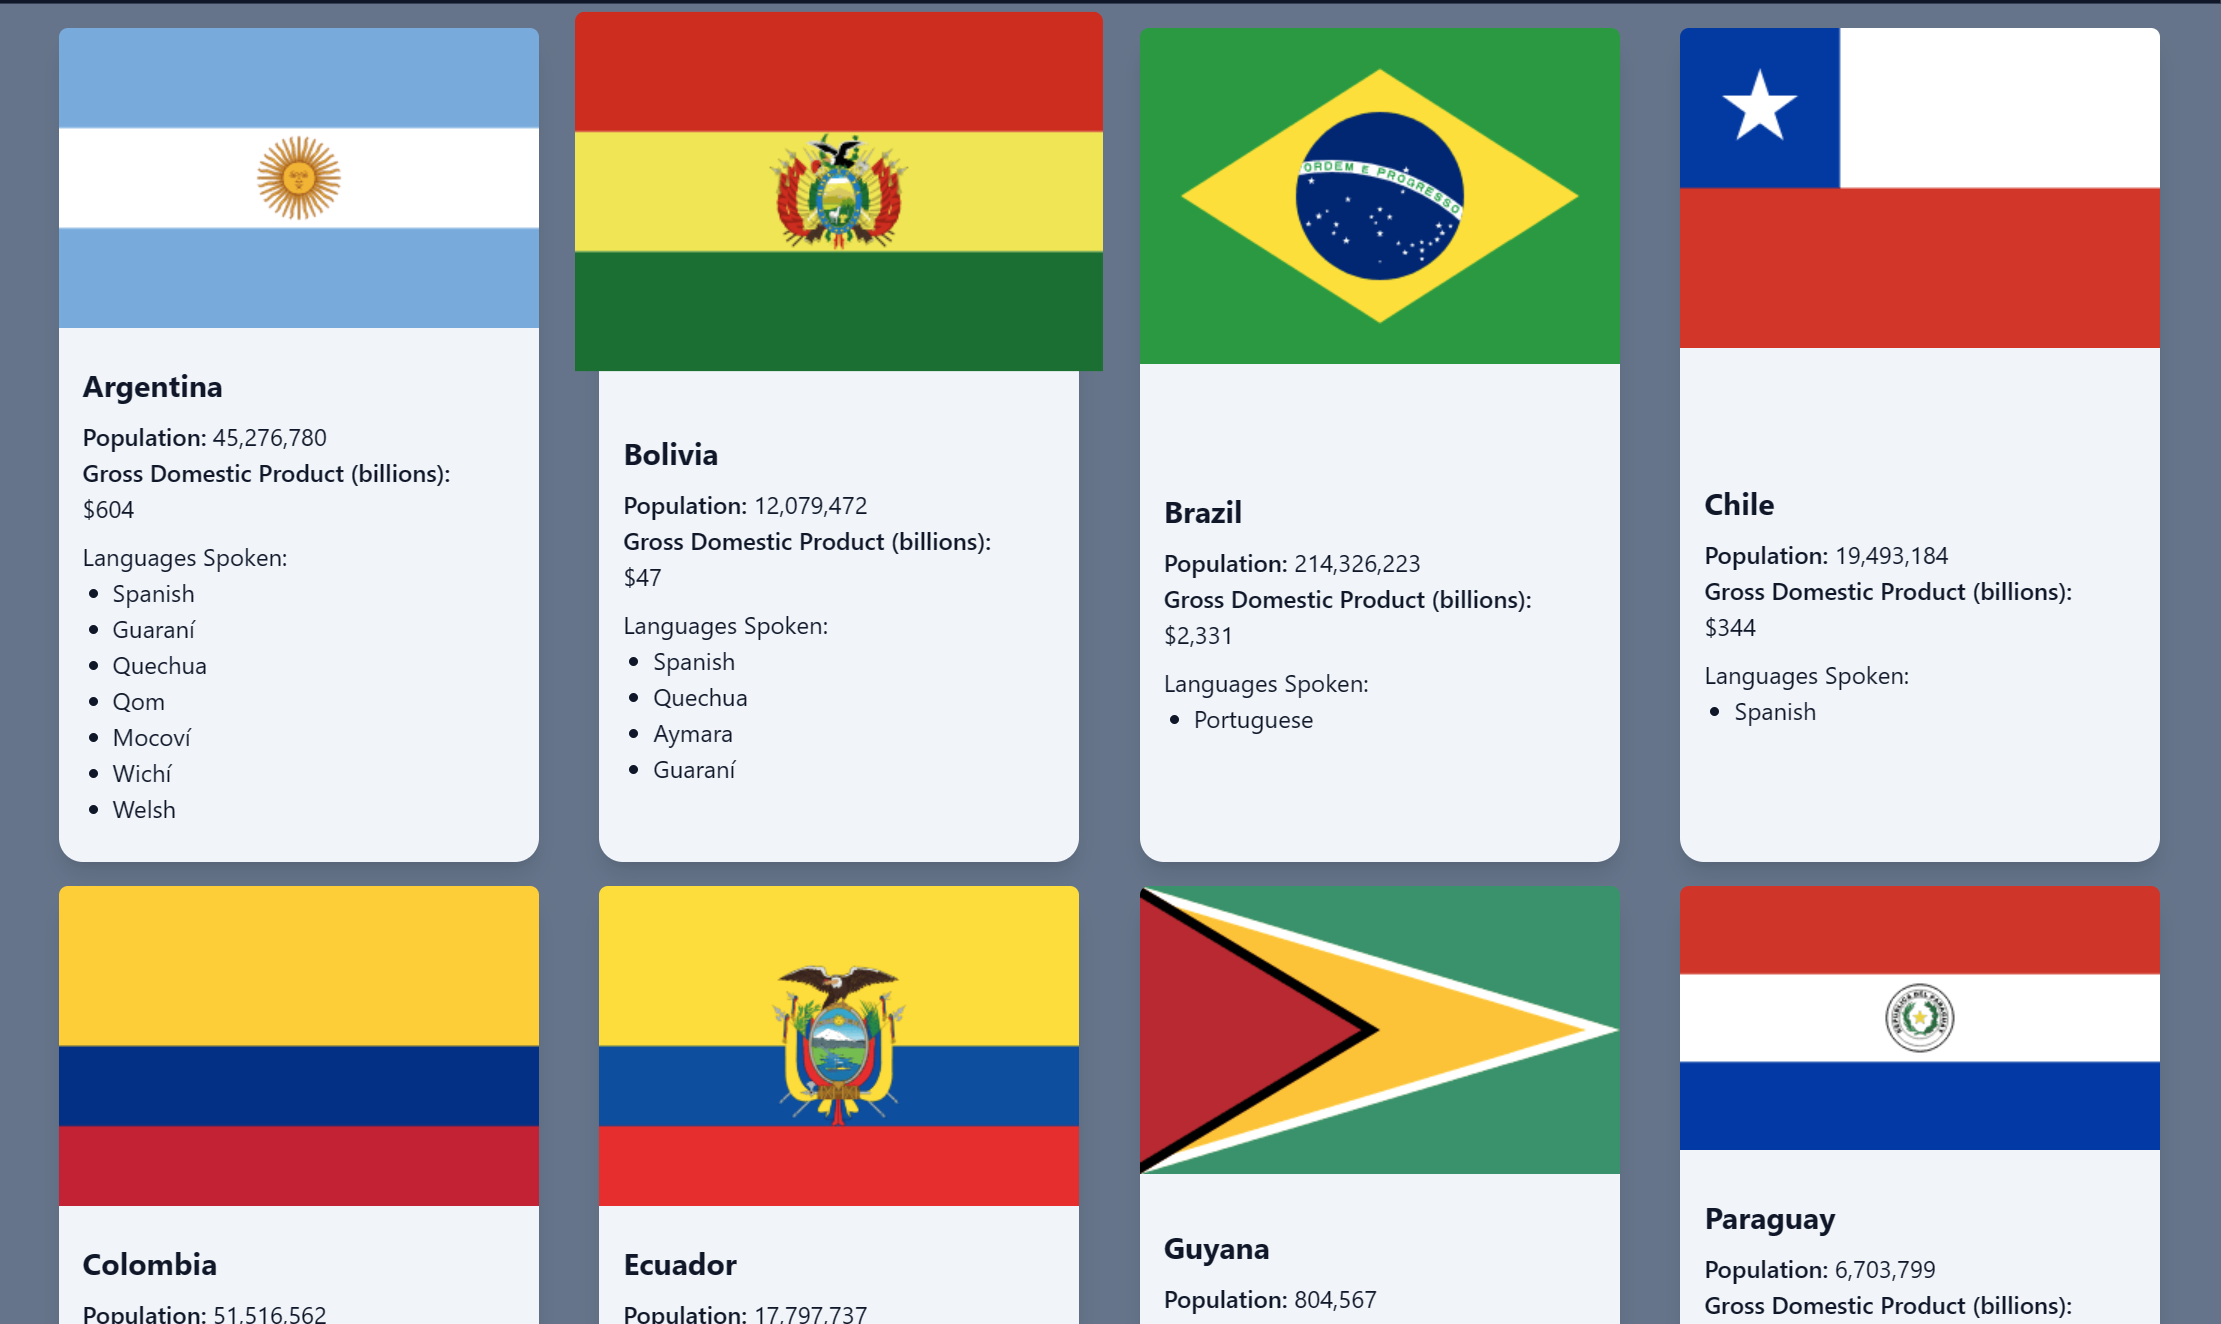
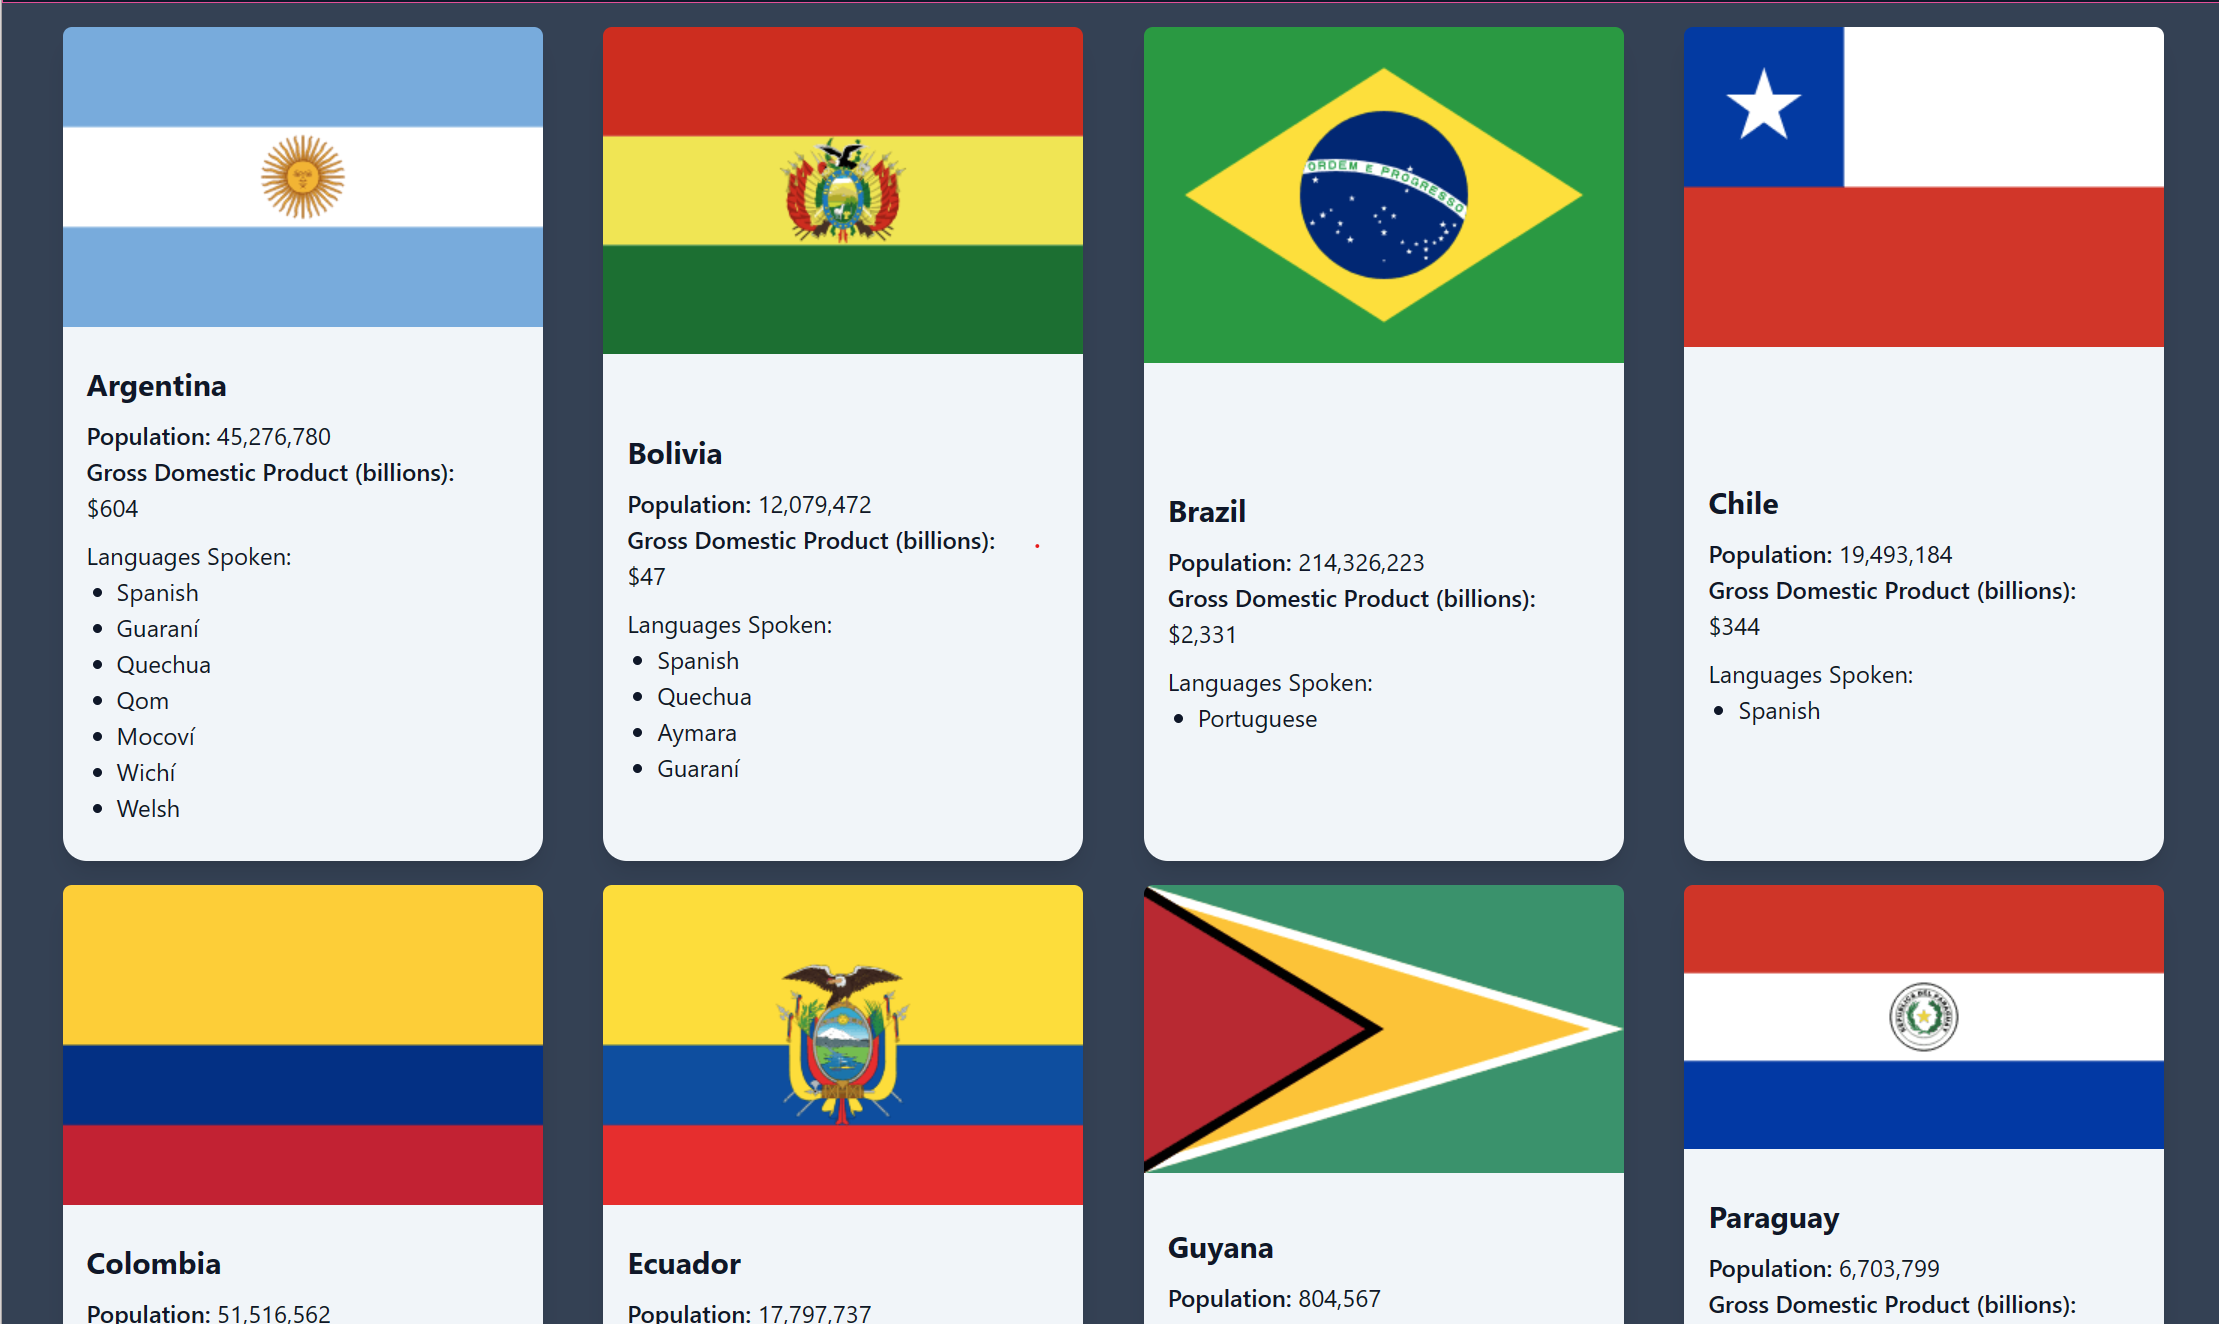
Final touches and finishing of styling the charts

diff --git a/src/routes/home.jsx b/src/routes/home.jsx
@@ -2,40 +2,51 @@ import Root from "./root";
 
 export default function Home() {
   return (
-    <div className="flex-col bg-slate-900 text-slate-100 min-h-screen">
+    <div className="flex-col bg-slate-700 text-slate-100 min-h-screen">
       <Root />
       <h1 className="text-4xl font-bold p-5 m-5 text-center">
         Welcome to Homework 3 for Frontend Web Development!
       </h1>
-      <section className="flex flex-col lg:flex-row m-5 p-5 bg-gradient-to-r from-pink-500 to-pink-900 rounded-md text-slate-100">
-        <h2 className="text-2xl font-semibold text-white p-6 text-center break-words">
-          Interested in information on a specific country, find it in the List
-          tab.
-        </h2>
-        <img
-          src="../public/ListPage.png"
-          alt="The list page."
-          className="h-[200px] justify-self-end"
-        />
-      </section>
-      <section className="flex flex-col lg:flex-row m-5 p-5 bg-gradient-to-r from-cyan-500 to-cyan-900 rounded-md">
-        <img
-          src="../public/PopulationPage.png"
-          alt="An image showing the Population tab"
-          className="h-[200px]"
-        />
-        <h2 className="text-2xl font-semibold p-6 text-center">
-          How about on information about the populations of the countries?
-          Navigate to the population tab.
-        </h2>
-      </section>
-      <section className="flex flex-col lg:flex-row m-5 p-5 bg-gradient-to-r from-slate-500 to-slate-900 rounded-md">
-        <h2 className="text-2xl font-semibold p-6">
-          Lastly, find a chart displaying information on the Languages spoken in
-          these countries in the Languages tab.
-        </h2>
-        <img src="" alt="The Languages Chart Page" className="h-[200px]" />
-      </section>
+      <div className="grid grid-rows-3">
+        <section className="flex flex-col lg:flex-row m-5 p-5 bg-gradient-to-r from-pink-500 to-pink-900 rounded-md text-slate-100 items-center shadow-lg border border-transparent">
+          <h2 className="text-2xl font-semibold text-white p-6 text-left break-words flex-grow">
+            Interested in information on a specific country? Find it in the List
+            tab. These are cards that showcase some information on each country
+            in a consistent format.
+          </h2>
+          <img
+            src="../public/ListPage.png"
+            alt="The list page."
+            className="h-[200px] lg:self-center"
+          />
+        </section>
+        <section className="flex flex-col lg:flex-row m-5 p-5 bg-gradient-to-r from-cyan-500 to-cyan-900 rounded-md items-center shadow-lg border border-transparent">
+          <img
+            src="../public/PopulationPage.png"
+            alt="An image showing the Population tab"
+            className="h-[200px] lg:self-center"
+          />
+          <h2 className="text-2xl font-semibold p-6 text-left flex-grow">
+            How about on information about the populations of the countries?
+            Navigate to the population tab to find a bar chart that shows each
+            country and their corresponding population. This helps visualize the
+            diversity in size of South American countries.
+          </h2>
+        </section>
+        <section className="flex flex-col lg:flex-row m-5 p-5 bg-gradient-to-r from-slate-500 to-slate-900 rounded-md items-center shadow-lg border border-transparent">
+          <h2 className="text-2xl font-semibold p-6 flex-grow">
+            Lastly, find a chart displaying information on the Languages spoken
+            in these countries in the Languages tab. Each language is a section
+            on the pie chart, and the size is determined by how many countries
+            speak that language.
+          </h2>
+          <img
+            src="../public/LanguagePage.png"
+            alt="The Languages Chart Page"
+            className="h-[200px] lg:self-center"
+          />
+        </section>
+      </div>
     </div>
   );
 }

diff --git a/src/routes/population.jsx b/src/routes/population.jsx
@@ -1,13 +1,12 @@
 import Root from "./root";
-import { Chart as ChartJS, ArcElement, Tooltip, Legend } from "chart.js/auto";
 import { Bar } from "react-chartjs-2";
 import FetchData from "../components/fetchDataFromAPI";
 import "../index.css";
 
-ChartJS.register(ArcElement, Tooltip, Legend);
-
 export default function Population() {
   const { data } = FetchData();
+  // const pink200 = "#FFC7D6";
+  const slate100 = "#F1F5F9";
 
   const countriesList = data.map(
     (country) => country.name || "Country name not available",
@@ -21,6 +20,7 @@ export default function Population() {
       {
         label: "Population",
         data: populationList,
+        backgroundColor: "rgba(6, 182, 212, 1)",
       },
     ],
   };
@@ -28,12 +28,45 @@ export default function Population() {
   const chartTitle = "Population of the countries in South America";
 
   return (
-    <div className="flex flex-col items-center bg-slate-100 min-h-screen">
+    <div className="flex flex-col items-center bg-slate-700 min-h-screen">
       <Root />
-      <h1 className="p-6 m-6 w-full text-4xl text-slate-900 text-start font-bold">
-        {chartTitle}
-      </h1>
-      <Bar data={chartData} />
+      <Bar
+        data={chartData}
+        key={Date.now()}
+        options={{
+          plugins: {
+            title: {
+              display: true,
+              text: chartTitle,
+              font: {
+                size: 30,
+                color: slate100,
+              },
+              color: slate100,
+            },
+            legend: {
+              labels: {
+                color: slate100,
+              },
+            },
+          },
+          scales: {
+            x: {
+              ticks: {
+                color: slate100,
+              },
+            },
+            y: {
+              ticks: {
+                color: slate100,
+              },
+              grid: {
+                color: slate100,
+              },
+            },
+          },
+        }}
+      />
     </div>
   );
 }

diff --git a/src/routes/languages.jsx b/src/routes/languages.jsx
@@ -1,17 +1,59 @@
 import Root from "./root";
+import FetchData from "../components/fetchDataFromAPI";
+import { Doughnut } from "react-chartjs-2";
 
 export default function Languages() {
-  // const { data } = Countries();
-  // const mapLanguages = (data) => {
-  //   return data;
-  // };
+  const { data } = FetchData();
+
+  const slate100 = "#F1F5F9";
+
+  let languageCounts = {};
+  data.forEach((country) => {
+    if (country.official_languages) {
+      country.official_languages.forEach((language) => {
+        if (languageCounts[language]) {
+          languageCounts[language]++;
+        } else {
+          languageCounts[language] = 1;
+        }
+      });
+    }
+  });
+
+  const chartData = {
+    labels: Object.keys(languageCounts),
+    datasets: [
+      {
+        label: "Language",
+        data: Object.values(languageCounts),
+      },
+    ],
+  };
 
   return (
-    <>
+    <div className="flex flex-col bg-slate-700 min-h-screen">
       <Root />
-      <h1 className="text-2xl font-bold">
-        Welcome to Homework 3 for Frontend Web Development!
-      </h1>
-    </>
+      <Doughnut
+        data={chartData}
+        key={Date.now()}
+        options={{
+          plugins: {
+            title: {
+              display: true,
+              text: "Languages",
+              font: {
+                size: 30,
+              },
+              color: slate100,
+            },
+            legend: {
+              labels: {
+                color: slate100,
+              },
+            },
+          },
+        }}
+      />
+    </div>
   );
 }

diff --git a/src/routes/list.jsx b/src/routes/list.jsx
@@ -6,7 +6,7 @@ import numeral from "numeral";
 export default function List() {
   const { data } = FetchData();
   return (
-    <div className="bg-slate-500 min-h-screen">
+    <div className="bg-slate-700 min-h-screen">
       <Root />
       <div className="p-4 flex flex-wrap justify-evenly gap-4">
         {data.map((country) => (
